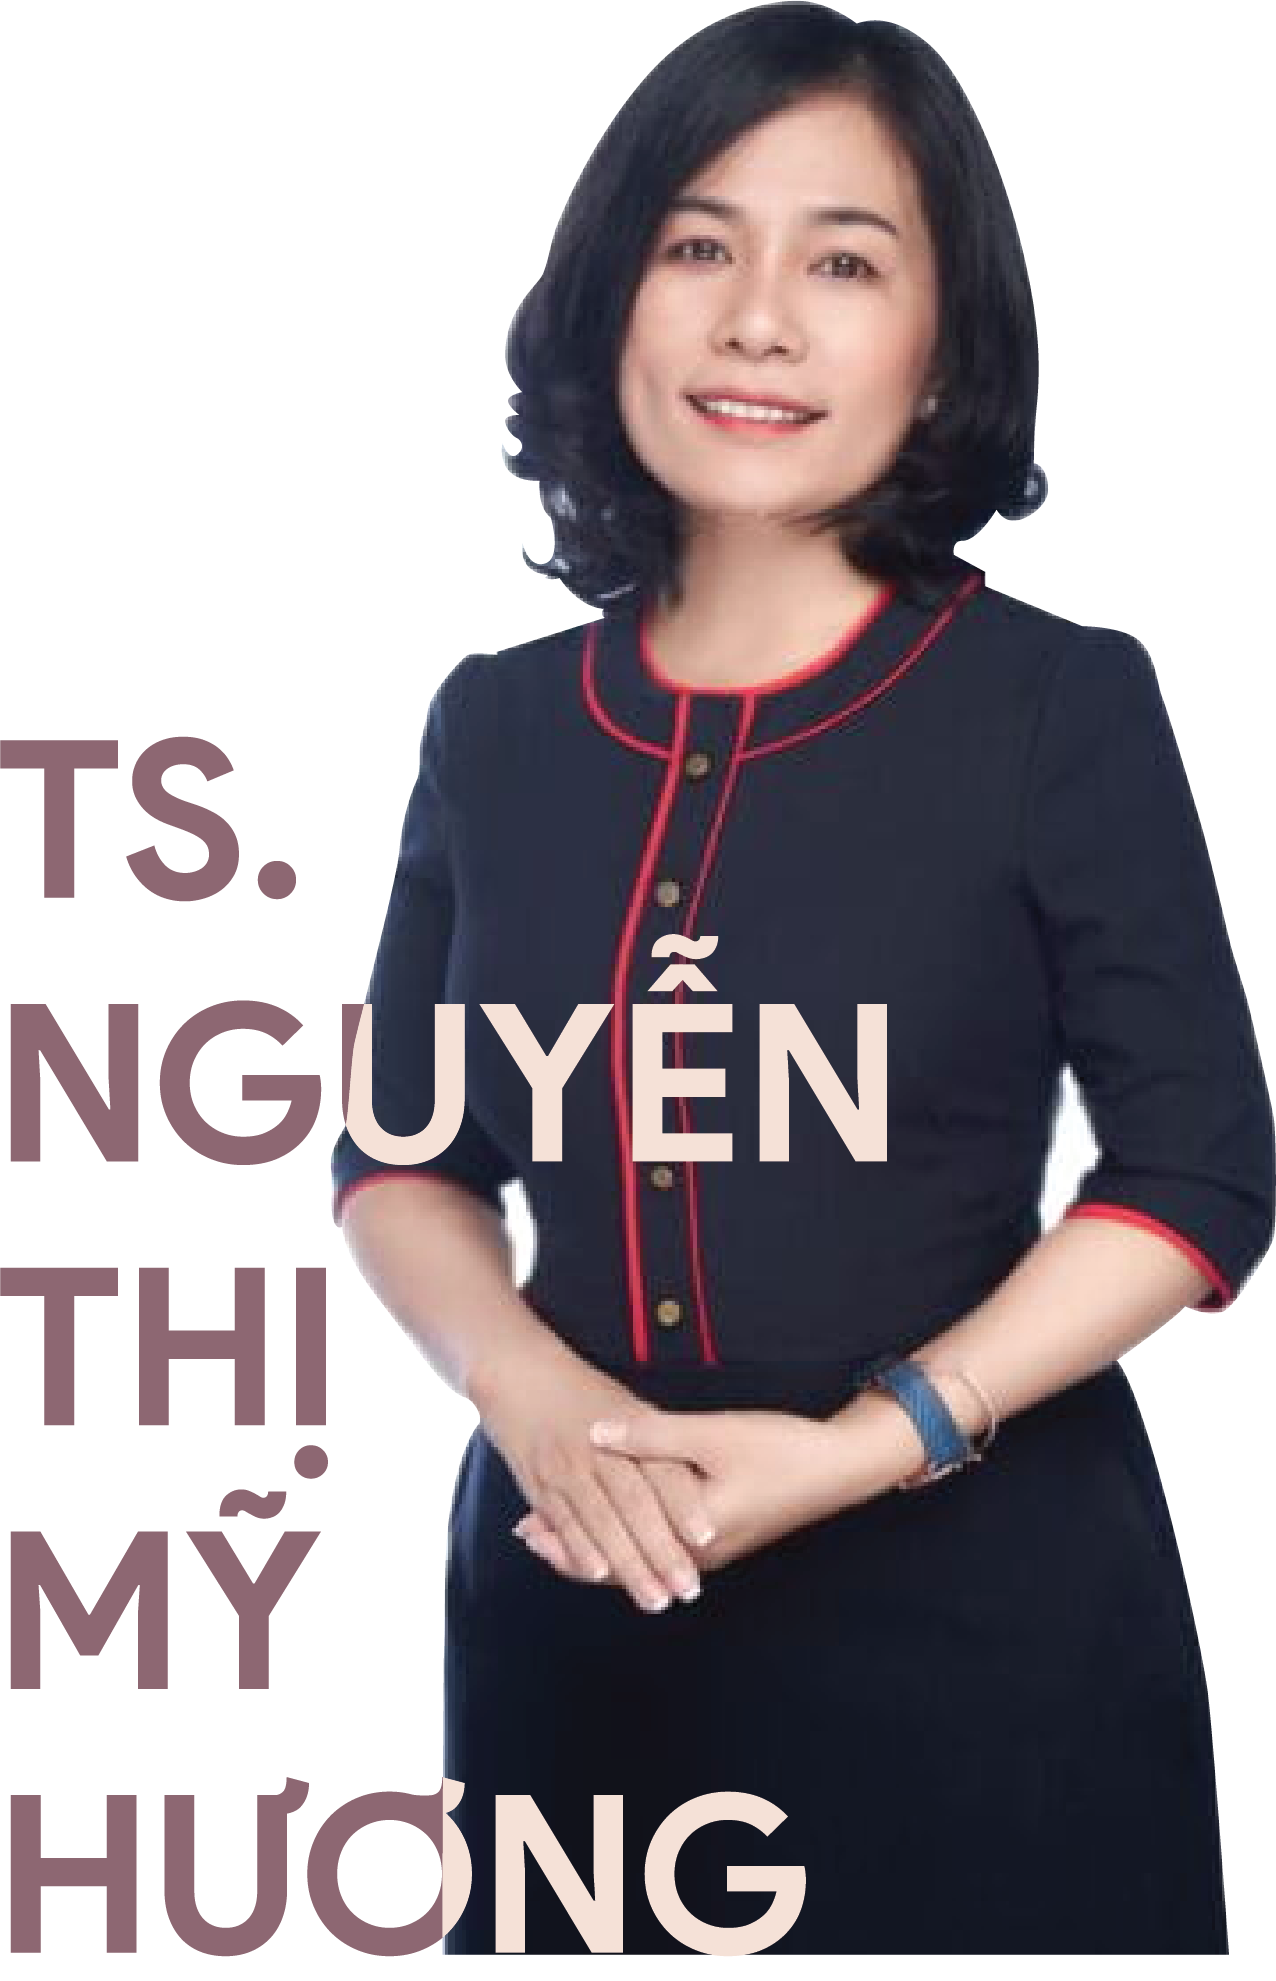
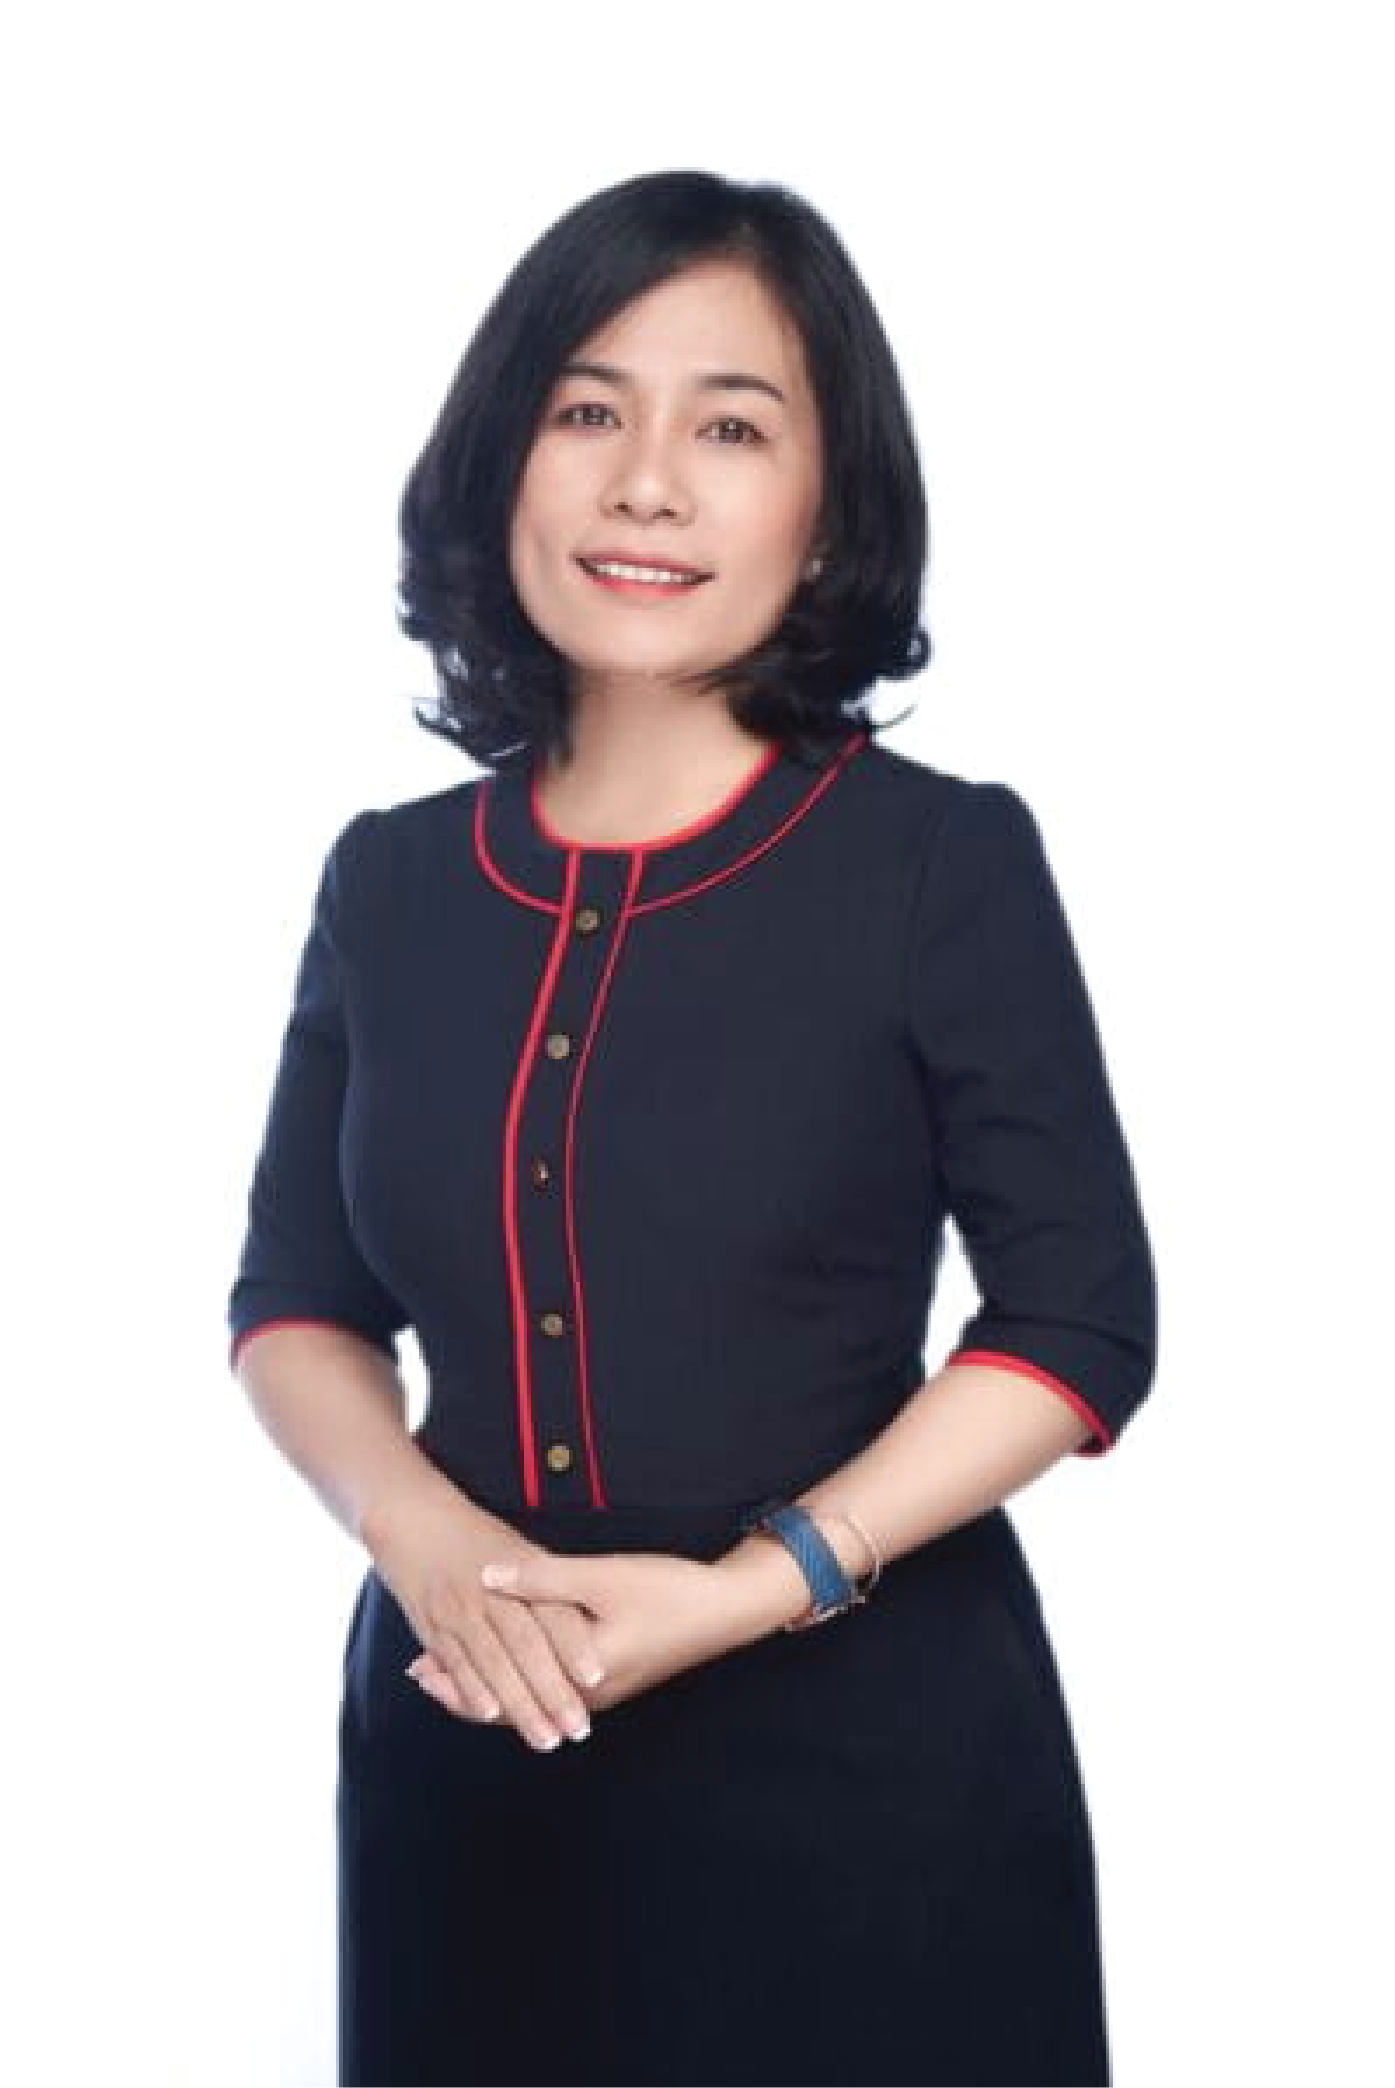
fixed tochuc

diff --git a/src/pages/hocphi.css b/src/pages/hocphi.css
@@ -8,17 +8,17 @@
     src: url("../../public/font/SVN-Product\ Sans\ Regular.otf");
 }
 
-*{
+* {
     padding: 0;
     margin: 0;
     box-sizing: border-box;
 }
 
-.body-hocphi{
+.body-hocphi {
     width: 100%;
 }
 
-.both-img-content{
+.both-img-content {
     width: 100%;
 }
 
@@ -26,7 +26,7 @@
     width: 100%;
 }
 
-.title-img{
+.title-img {
     position: absolute;
     right: 10rem;
     top: 20rem;
@@ -37,7 +37,7 @@
     font-family: SVN-Product-Sans-Bold;
 }
 
-.title-content{
+.title-content {
     font-size: 18px;
     text-align: left;
     width: 59%;
@@ -46,7 +46,7 @@
     letter-spacing: 0.5px;
 }
 
-.content-hocphi{
+.content-hocphi {
     margin-left: 5rem;
 }
 
@@ -57,7 +57,7 @@
     margin-left: 3rem;
 }
 
-.content-hocphi1{
+.content-hocphi1 {
     display: flex;
     width: 100%;
     margin-left: 3rem;
@@ -69,14 +69,14 @@
     margin-left: 5rem;
 }
 
-.both-content1 p{
+.both-content1 p {
     font-size: 35px;
     margin-left: 3rem;
     margin-bottom: 1rem;
     font-family: SVN-Product-Sans-Bold;
 }
 
-.both-content1 ol{ 
+.both-content1 ol {
     font-family: SVN-Product-Sans-Regular;
     margin-top: 30px;
     margin-left: 4rem;
@@ -84,16 +84,16 @@
     font-size: 18px;
 }
 
-.both-content1 li + li {
+.both-content1 li+li {
     margin-top: 1rem;
 }
 
-.content-hocphi2{
+.content-hocphi2 {
     display: flex;
     width: 100%;
 }
 
-.content-hocphi2 img{
+.content-hocphi2 img {
     margin-left: 4rem;
 }
 
@@ -103,31 +103,31 @@
     margin-left: 4rem;
 }
 
-.both-content2 p{
+.both-content2 p {
     font-size: 35px;
     font-family: SVN-Product-Sans-Bold;
     margin-bottom: 1rem;
 }
 
-.both-content2 ol{ 
+.both-content2 ol {
     font-family: SVN-Product-Sans-Regular;
     margin-top: 30px;
     width: 100%;
     font-size: 18px;
 }
 
-.both-content2 li + li {
+.both-content2 li+li {
     margin-top: 1rem;
 }
 
-.girl{
+.girl {
     margin-top: 9rem;
     margin-left: 5rem;
     width: 80%;
     position: relative;
 }
 
-.background-girl{
+.background-girl {
     width: 90%;
     position: absolute;
     top: 254rem;
@@ -138,7 +138,7 @@
     margin-bottom: 20px;
 }
 
-.background-girl2{
+.background-girl2 {
     width: 70%;
     height: 100rem;
     position: absolute;
@@ -149,7 +149,7 @@
     opacity: 30%;
 }
 
-.content-hocphi3{
+.content-hocphi3 {
     list-style: none;
     font-family: SVN-Product-Sans-Regular;
     width: 70%;
@@ -158,6 +158,6 @@
     margin-bottom: 10rem;
 }
 
-.content-hocphi3 li + li{
+.content-hocphi3 li+li {
     margin-top: 20px;
 }

diff --git a/src/pages/tochuc.js b/src/pages/tochuc.js
@@ -37,7 +37,7 @@ const ToChuc = () => {
 
             <div className="background-content3">
                 <div className="bothhuong">
-                    <img className="anhHuong" src="https://scontent.fdad3-4.fna.fbcdn.net/v/t1.15752-9/292396789_383532467182222_732688730299289907_n.png?_nc_cat=101&ccb=1-7&_nc_sid=ae9488&_nc_ohc=h1fJs0K7VgQAX8XYnxU&_nc_ht=scontent.fdad3-4.fna&oh=03_AVLqKoKSkS_14Dn6dSBoXOcBRXrcB-8zFcHBC7ONxsS2tg&oe=63004686" />
+                    <img className="anhHuong" src={require("../assets/img/huong.png")} />
                     <div className="content3">
                         <p className="Huong">Viện trưởng</p>
                         <p> Viện trưởng là người đại diện cho Viện trước pháp luật; chịu trách nhiệm
@@ -63,7 +63,7 @@ const ToChuc = () => {
                             động của Viện, Viện có không quá ba Phó Viện trưởng. Hiện nay Viện có một Phó
                             viện trưởng là PGS.TS.Giang Thị Kim Liên phụ trách Đào tạo, đảm bảo chất lượng,
                             Nghiên cứu và Hợp tác quốc tế, ngành đào tạo Khao học Y Sinh và Công nghệ Nano</p>
-                        <Link to="/GiangThiKimLien">Tìm hiểu thêm về Phó Viện trưởng - PSG.TS.Giang Thị Kim Liên</Link>
+                        <Link to="/Giang_thi_kim_lien">Tìm hiểu thêm về Phó Viện trưởng - PSG.TS.Giang Thị Kim Liên</Link>
                     </div>
                     <img className="anhLien" src={Lien} />
                 </div>

diff --git a/src/pages/huong.js b/src/pages/huong.js
@@ -1,7 +1,7 @@
 import React from "react";
 import './huong.css';
 
-import Huong1 from "../assets/img/Huong.png"
+import Huong1 from "../assets/img/huong2.png"
 
 const Huong = () => {
     return (

diff --git a/src/pages/tochuc.css b/src/pages/tochuc.css
@@ -41,7 +41,7 @@
 
 .background-content-title {
     width: 100%;
-    height: 28vh;
+    height: 20rem;
     background: #202045;
     color: white;
     font-size: 20px;
